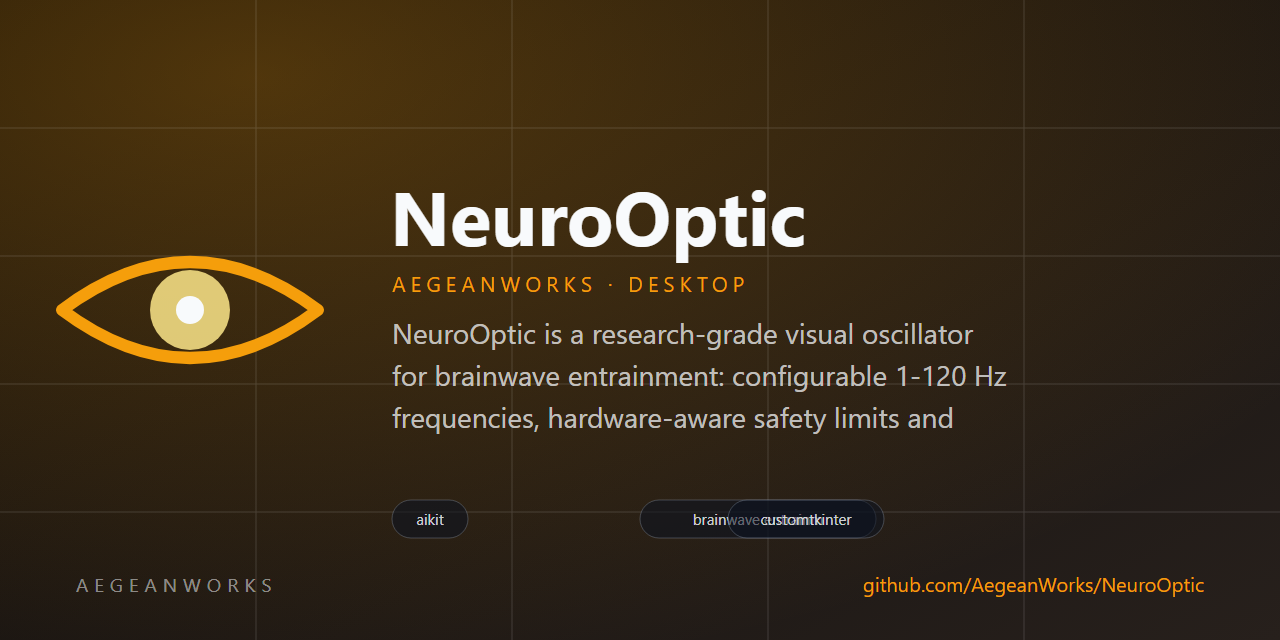
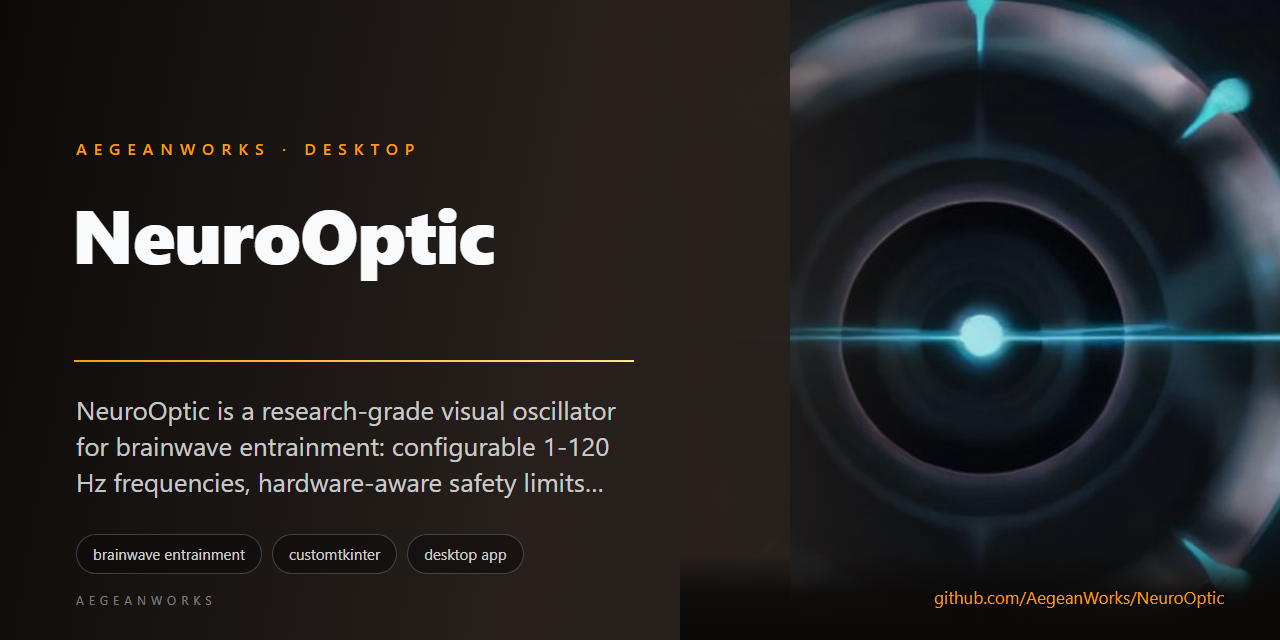
feat(brand): replace procedural marks with reviewed AI-art identities

diff --git a/README.md b/README.md
@@ -1,8 +1,8 @@
 # NeuroOptic
 
 <!-- aegean:media:start -->
-<p align="center"><img src="assets/logo.svg" alt="NeuroOptic logo" width="96" height="96"></p>
-<p align="center"><img src="assets/social-preview.svg" alt="NeuroOptic social preview" width="100%"></p>
+<p align="center"><img src="assets/logo.png" alt="NeuroOptic logo" width="96" height="96"></p>
+<p align="center"><img src="assets/social-preview.png" alt="NeuroOptic social preview" width="100%"></p>
 <!-- aegean:media:end -->
 
 [![AIKit Integrated](https://img.shields.io/badge/AIKit-integrated-6f42c1)](https://github.com/AegeanWorks/AIKit)
